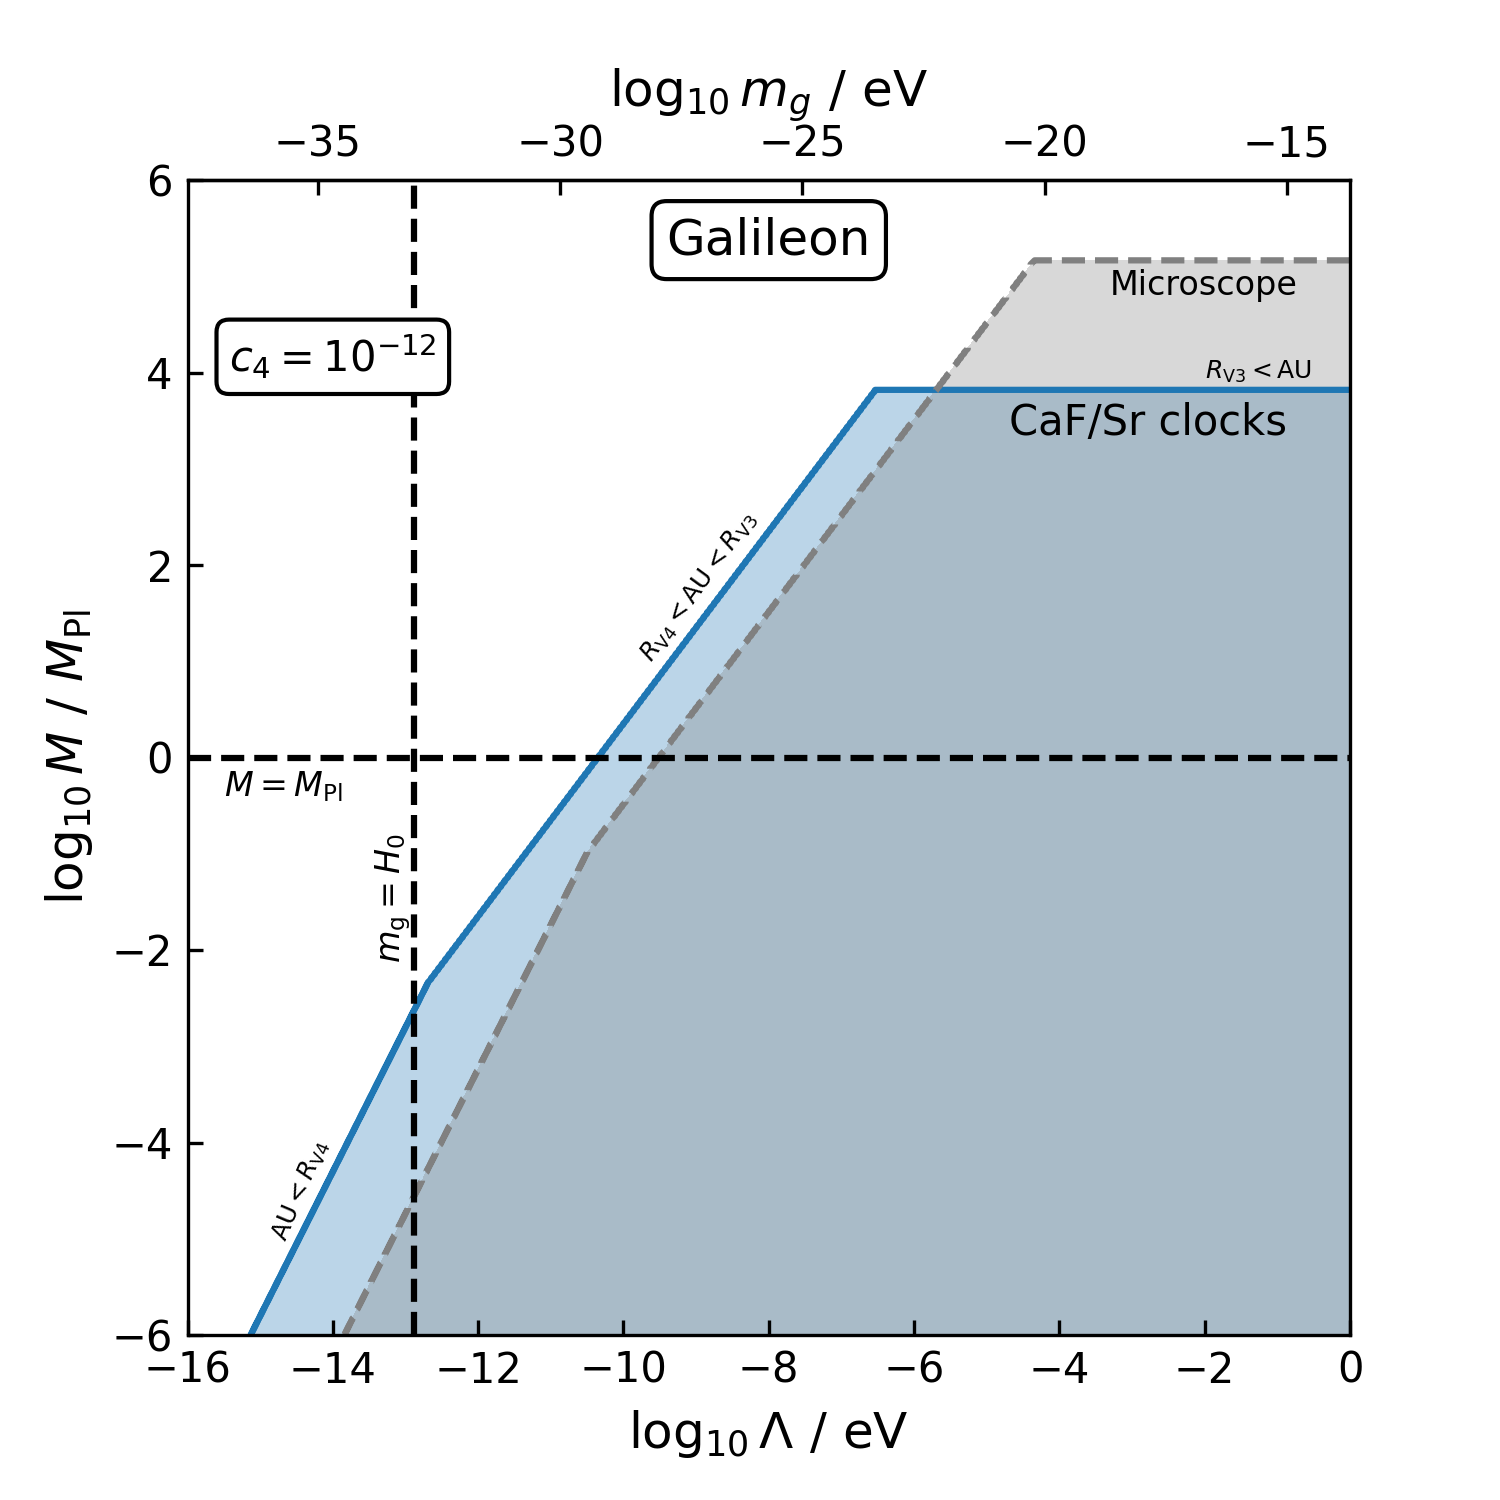
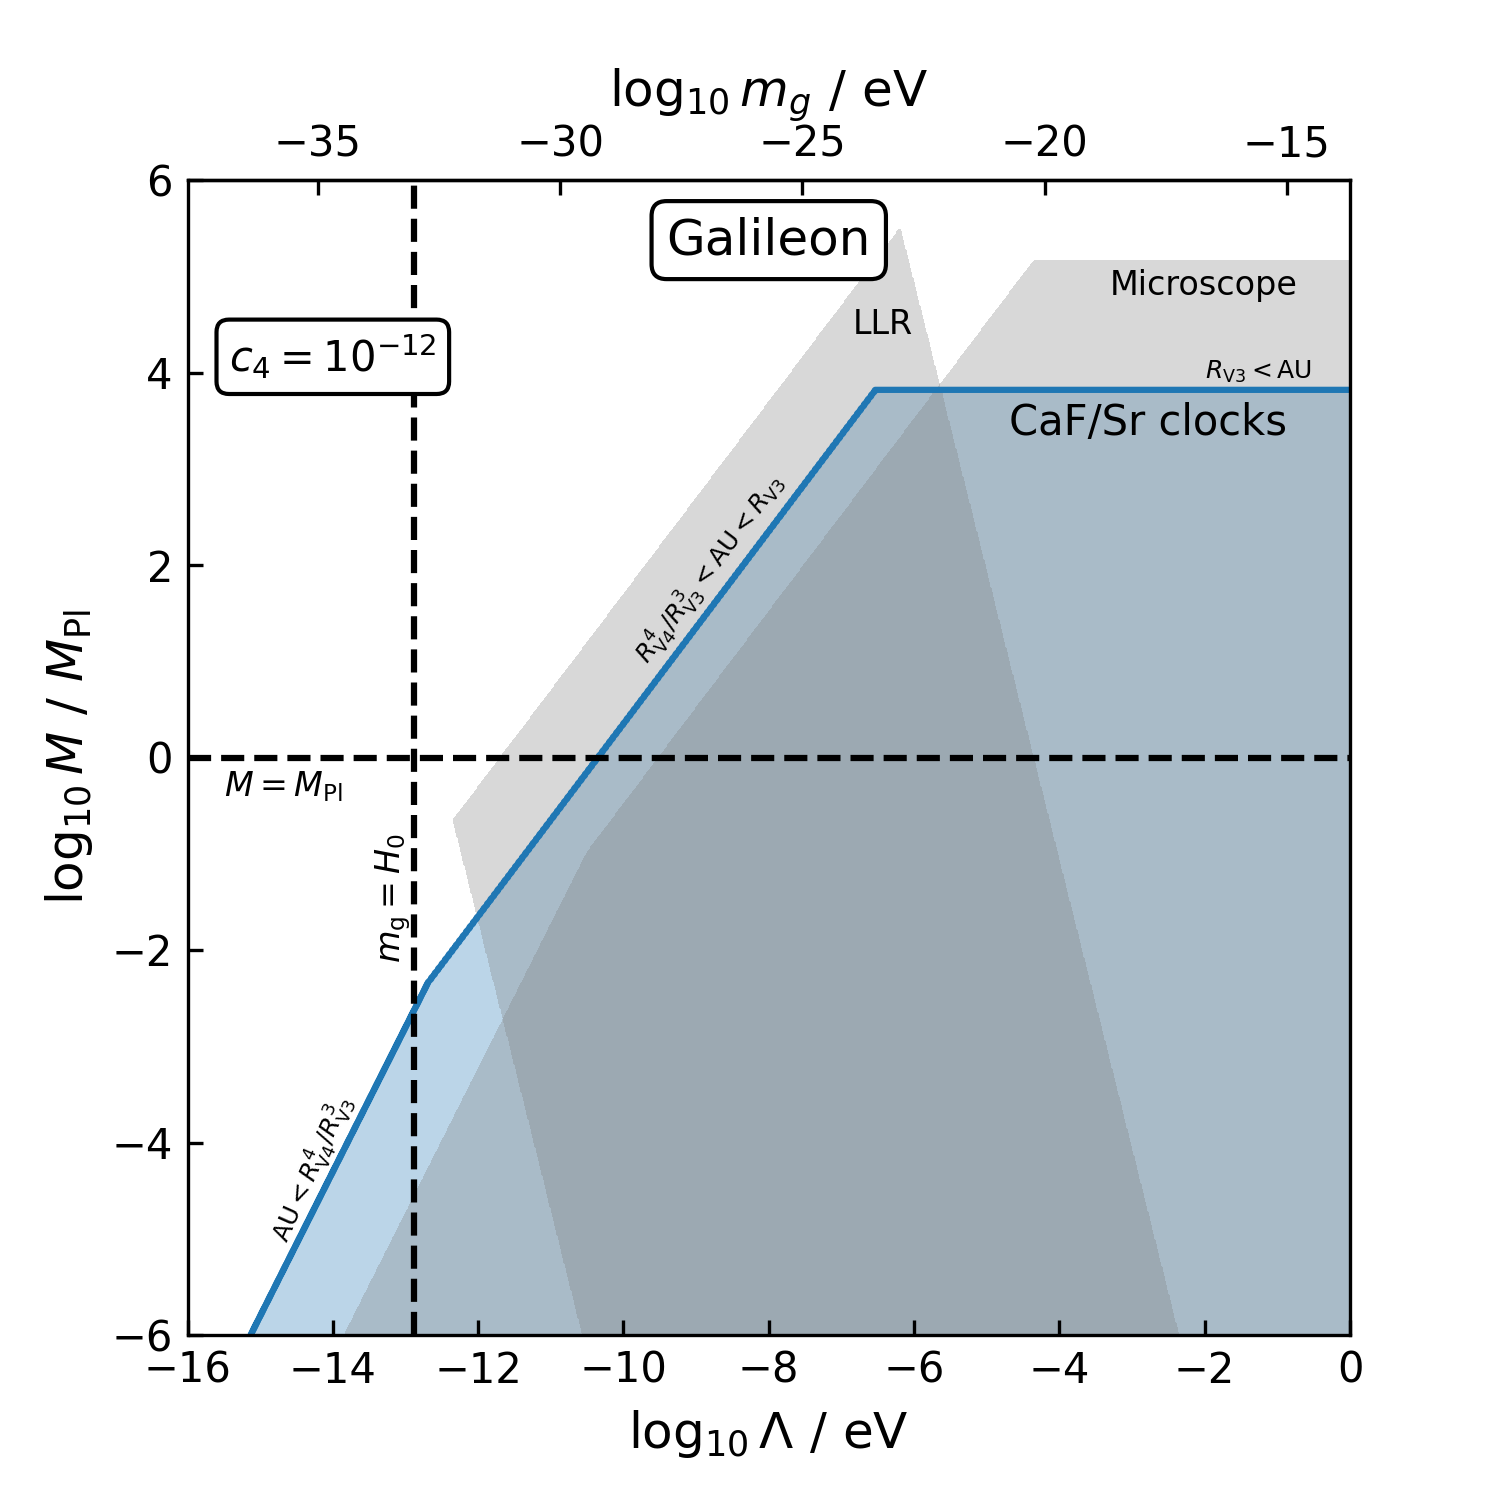
LLR bound

diff --git a/plot_MG.py b/plot_MG.py
@@ -81,11 +81,27 @@ Z4 = bounds.microscope(M, np.inf, dp)
 Z = Z2 & Z3 & Z4
 
 col = 'gray'
-plt.contour(X, Y, Z, levels=[0.5], colors=col, linestyles='dashed')
+#plt.contour(X, Y, Z, levels=[0.5], colors=col, linestyles='dashed')
 plt.contourf(X, Y, Z, levels=[0.5, 1], colors=col, alpha=0.3)
 plt.text(np.log10(5e-4), np.log10(8e4),
          "Microscope", va = "center", fontsize = 8)
 
+# LLR
+Z1 = bounds.LLR(M, Lambda)
+rV3 = bounds.rV3(M, Lambda, earth_mass)
+rV4 = bounds.rV4(M, Lambda, earth_mass, c4)
+
+Z2 = earth_moon_distance < rV3
+Z3 = earth_moon_distance > rV4**4 / rV3**3
+
+Z = Z1 & Z2 & Z3
+
+col = 'gray'
+#plt.contour(X, Y, Z, levels=[0.5], colors=col, linestyles='dashed')
+plt.contourf(X, Y, Z, levels=[0.5, 1], colors=col, alpha=0.3)
+
+plt.text(-6.85, 4.5,
+         "LLR", va = "center", fontsize = 8)
 
 # Styling
 plt.tick_params( direction = 'in' )
@@ -110,11 +126,11 @@ plt.text(-13.45, -2, r"$m_\mathrm{g} = H_0$", fontsize=8, rotation='vertical')
 # Labels of Vainshtein regions
 plt.text(np.log10(1e-2), np.log10(8.5e3),
          r"$R_{\rm V3} < {\rm AU}$", fontsize = 6)
-plt.text(np.log10(1.5e-10), np.log10(1e1),
-         r"$R_{\rm V4} < {\rm AU} < R_{\rm V3}$",
-         fontsize = 6, rotation = 54)
-plt.text(-14.9, -5, r"${\rm AU} < R_{\rm V4}$",
-         fontsize = 6, rotation = 67)
+plt.text(-9.925, 1,
+         r"$R_{\rm V4}^4 / R_{\rm V3}^3 < {\rm AU} < R_{\rm V3}$",
+         fontsize = 6, rotation = 53)
+plt.text(-14.92, -5, r"${\rm AU} < R_{\rm V4}^4 / R_{\rm V3}^3$",
+         fontsize = 6, rotation = 66)
 
 plt.xlabel(r'$\log_{10} \Lambda ~/~ \mathrm{eV}$', fontsize=12)
 plt.ylabel(r'$\log_{10} M ~/~ M_\mathrm{Pl}$', fontsize=12)
@@ -212,4 +228,4 @@ plt.ylabel(r"$\alpha$", fontsize=12)
 
 plt.savefig("plots/MG_gen_alpha_vs_beta.png", dpi=po.dpi_setting)
 
-#plt.show()
+plt.show()

diff --git a/theory/bounds.py b/theory/bounds.py
@@ -59,6 +59,26 @@ def microscope(M, M_e, dphi):
 
     return eta < out
 
+def LLR(M, L):
+    """ Lunar laser ranging bound on the cubic galileon
+    As described in 1407.0059 """
+
+    rV = rV3(M, L, earth_mass)
+
+    g = Mpl / M
+    R = earth_moon_distance
+    return 1e-11 < g**2 * (R / rV)**(3/2.)
+
+def rV3(M, L, M_obj):
+    """ Cubic Vainshtein radius """
+    return (M_obj / (2*PI*M))**(1/3.) / L
+
+
+def rV4(M, L, M_obj, c4):
+    """ Quartic Vainshtein radius """
+    return (c4/2)**(1/6.) * rV3(M, L, M_obj)
+
+
 def planck(w):
     return -0.95 < w
 

diff --git a/theory/physical_constants.py b/theory/physical_constants.py
@@ -32,6 +32,8 @@ solar_mass = 2e33 * g_to_eV
 earth_mass = 1.7e28 * g_to_eV
 earth_eccentricity = 0.0167
 
+earth_moon_distance = 3.84e10 / hbar
+
 ### Cosmology ###
 Lambda_DE = 2.4e-3  # eV
 rho_DE = Lambda_DE**4.  # all densities are in eV^4
